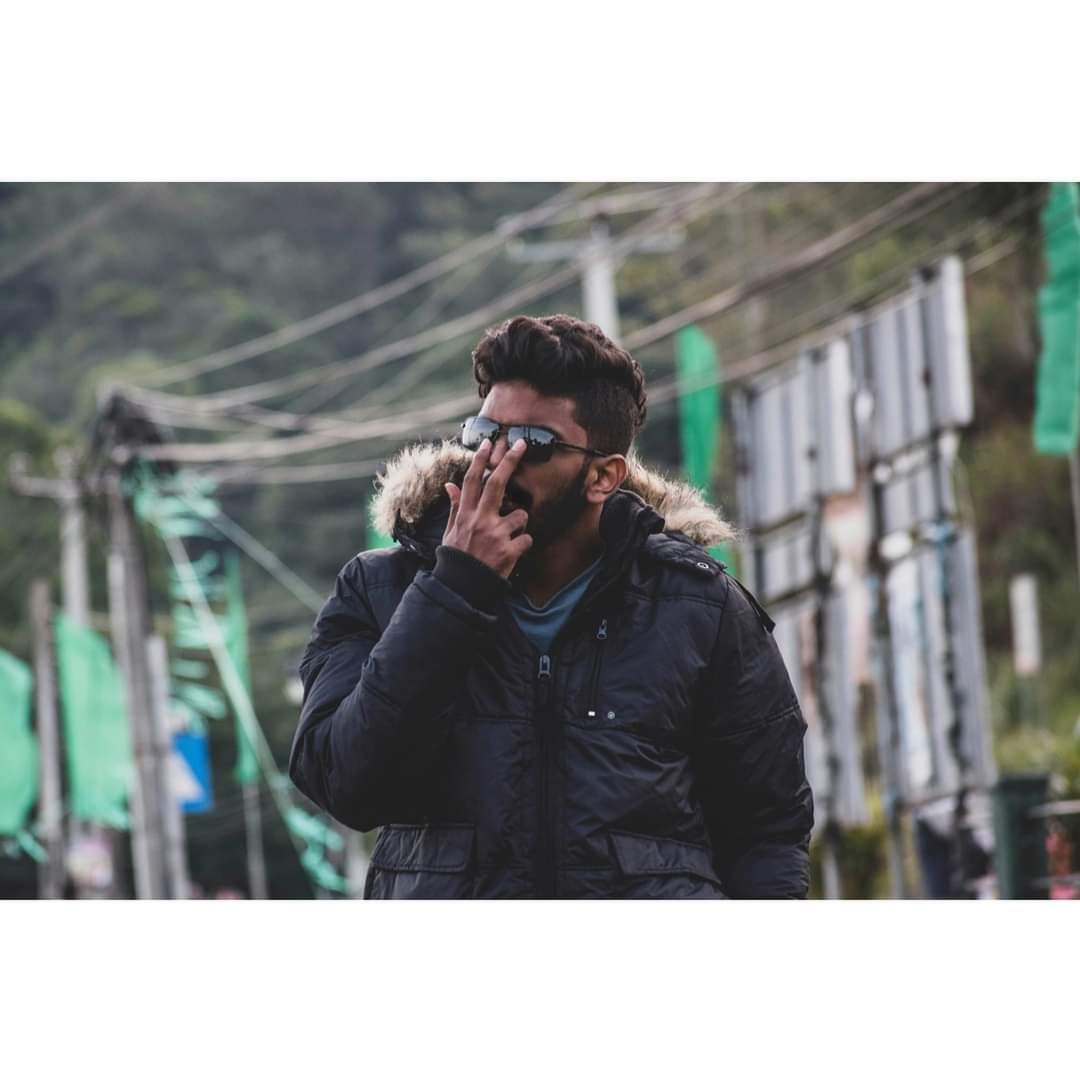
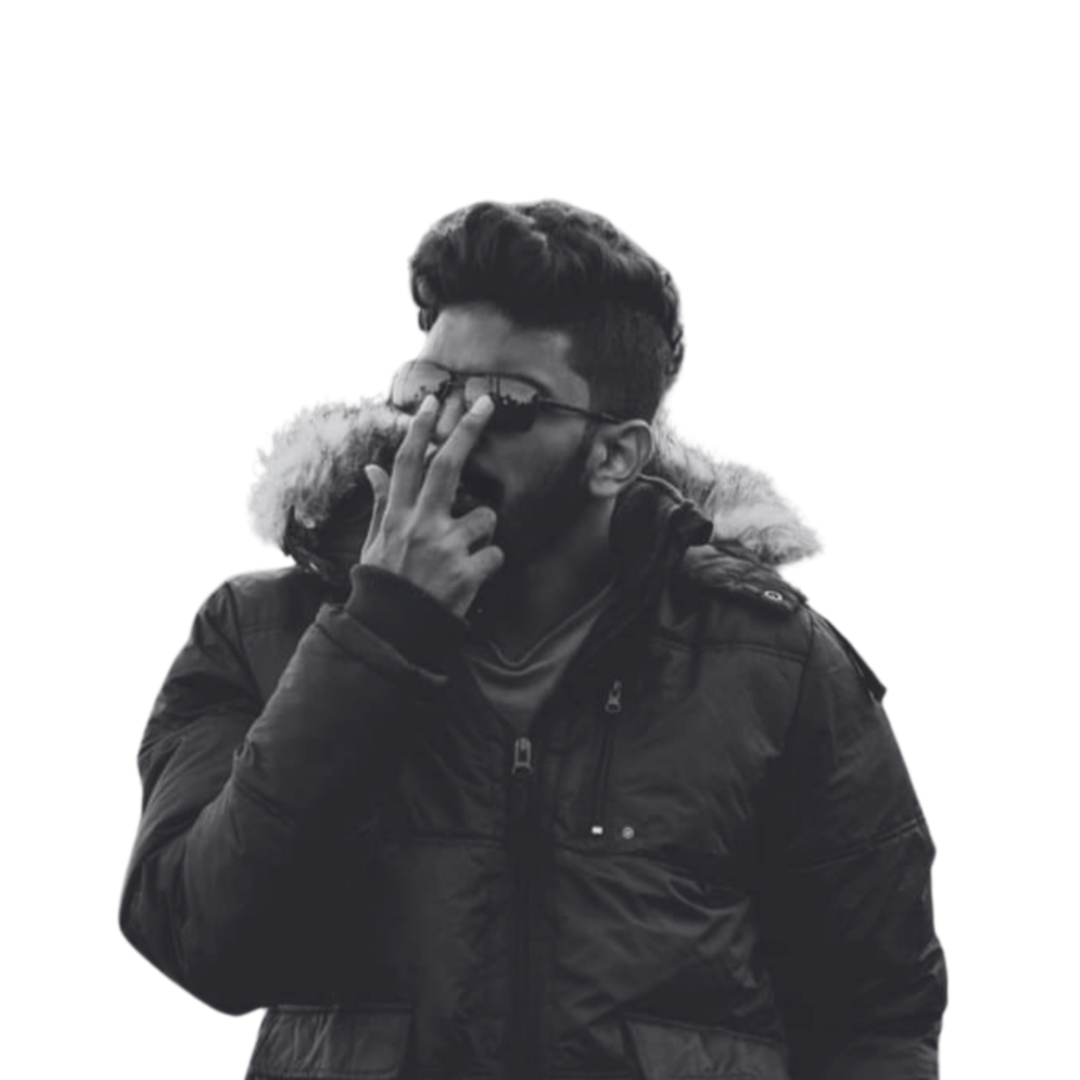
v2.3.0

diff --git a/public/index.html b/public/index.html
@@ -154,7 +154,7 @@
         </div>
         <div class="row align-items-center">
           <div class="col-lg-5 pb-4 pb-lg-0">
-            <img class="img-fluid rounded w-100" src="img/about.jpg" alt="" />
+            <img class="img-fluid rounded w-100" src="img/logo.png" alt="" />
           </div>
           <div class="col-lg-7">
             <h3 class="mb-4">Front-End Developer</h3>
